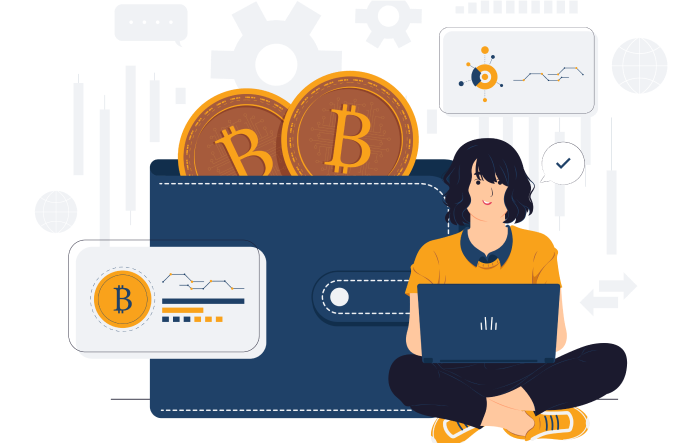
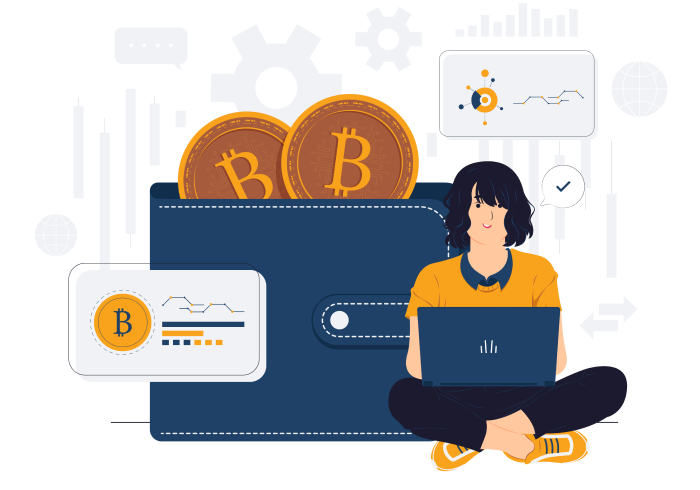
Subindo a primeira tela

diff --git a/css/style.css b/css/style.css
@@ -30,20 +30,20 @@ body {
     gap: 12px;
 }
 
-.header-item{
+.header-item {
     font-family: 'Lato', sans-serif;
     color: #000E56;
     font-weight: 600;
     font-size: 14px;
 }
 
-.header-second{
+.header-second {
     display: flex;
     align-items: center;
     gap: 12px;
 }
 
-.header-button{
+.header-button {
     width: 69px;
     height: 23.49px;
     left: 1142px;
@@ -54,4 +54,57 @@ body {
     color: #FFFF;
     font-weight: 600;
     font-size: 12px;
+}
+
+.content {
+    background-image: url(/tcc/images/background.png);
+    width: 100%;
+    height: 640px;
+    left: 0px;
+    background-position: absolut;
+    background-size: cover;
+}
+
+.main-content {
+    display: flex;
+    flex-direction: row;
+    align-items: center;
+    justify-content: space-around;
+}
+
+.main-written {
+    display: flex;
+    flex-direction: column;
+    gap: 32px;
+    font-family: 'Lato', sans-serif;
+    font-weight: 700;
+    font-size: 45px;
+}
+
+.yellow-word {
+    color: #FFC90A;
+}
+
+.blue-word {
+    color: #000E56;
+}
+
+.main-button {
+    width: 249px;
+    height: 67.55px;
+    left: 204px;
+    top: 473.32px;
+    background: #000E56;
+    border-radius: 4px;
+    font-family: 'Lato', sans-serif;
+    color: #FFFF;
+    font-weight: 600;
+    font-size: 30px;
+    box-shadow: 0px 4px 4px rgba(0, 0, 0, 0.25);
+}
+
+.woman-first {
+    display: flex;
+    padding: 42px;
+    gap: 7px;
 }

diff --git a/index.html b/index.html
@@ -29,10 +29,15 @@
   <main class="content">
     <section class="main-content">
       <div class="main-written">
-        <h1 class="main-written-buy">Compre, negocie e aprenda a ter o controle financeiro na Cryptop</h1>
+        <h1 class="main-written-buy">
+          <p>Compre, negocie 
+          <p>aprenda a ter o 
+          <p class="yellow-word">controle financeiro
+          <p> na <b class="blue-word">Cryptop</b>
+        </h1>
         <button class="main-button">Começar</button>
       </div>
-      <img src="images/woman_not.png" alt="Imagem da mulher no not">
+      <img class="woman-first" src="images/woman_not.png" alt="Imagem da mulher no not">
     </section>
   </main>
   <div>
